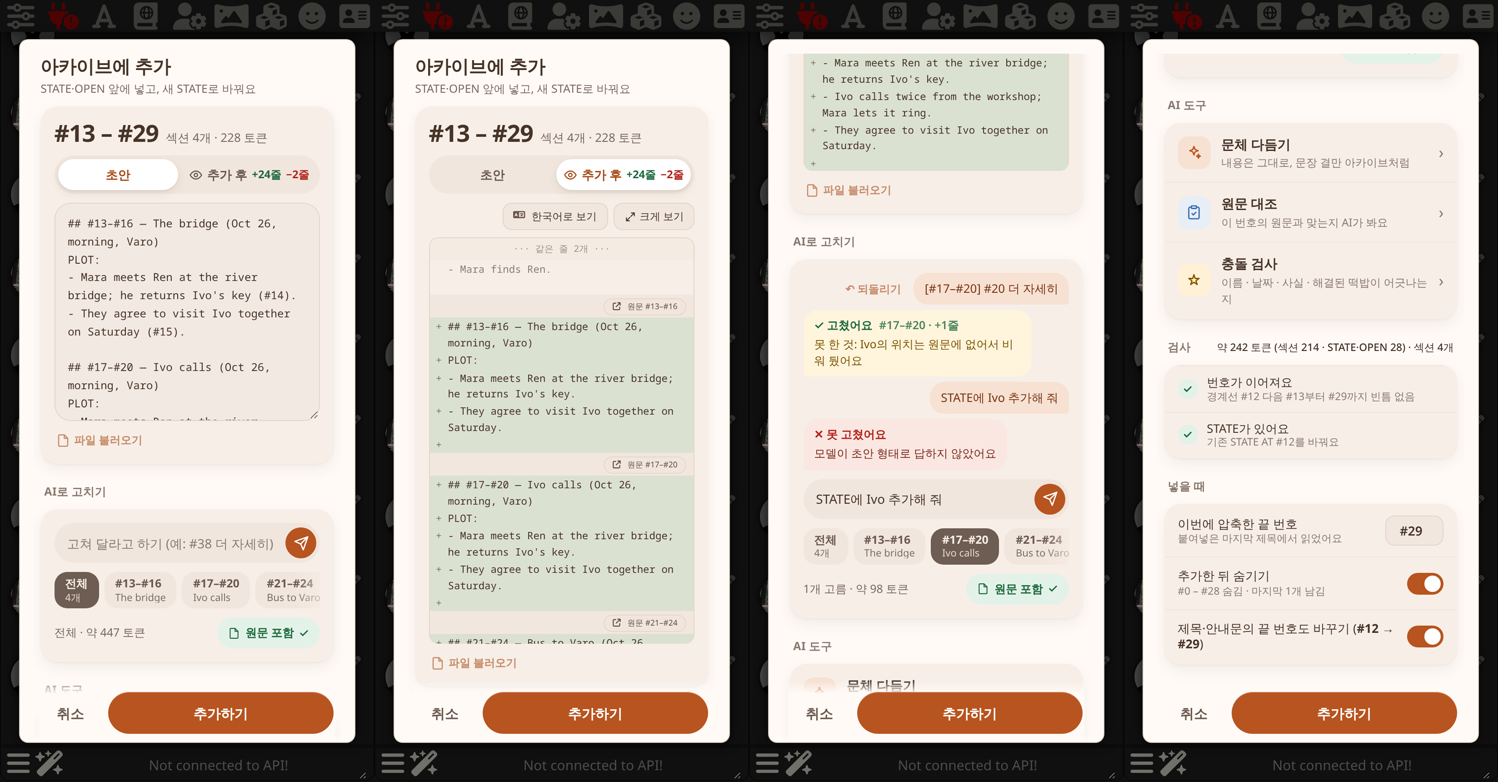
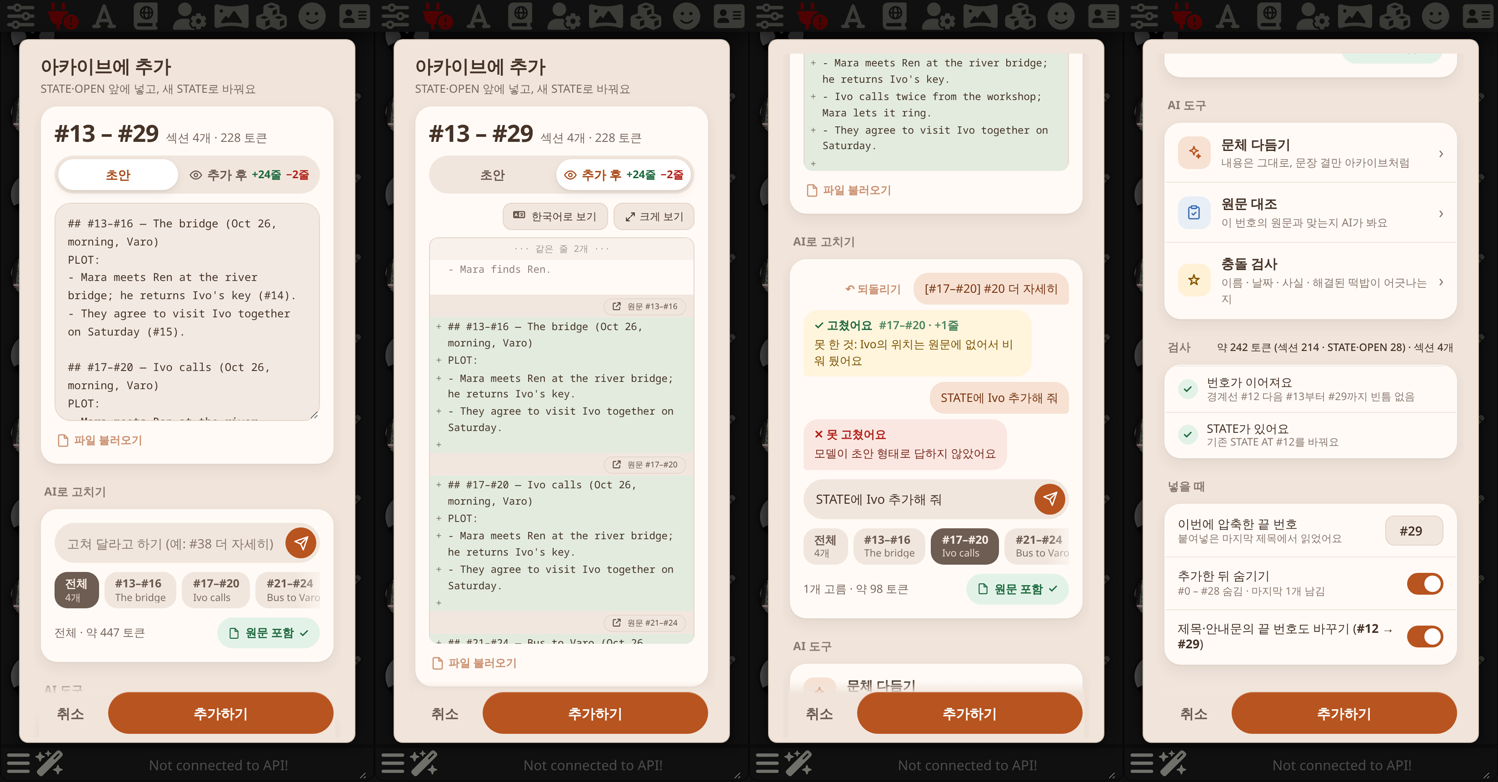
3.158.6: 아카이브에 추가: the other way round, as the settings panel: cream window, cards in its white paper (#FFFAF6)
Claude-Session: https://claude.ai/code/session_01TBUyc5NesEMBcPKHWzpL6W

Changed region(s): [[0.0, 0.0307, 1.0, 0.9514]]

diff --git a/style.css b/style.css
@@ -2447,10 +2447,10 @@ body.na_darkui .na_ap2 .na_append_ta { background: #2E2621 !important; border: 1
 body:not(.na_darkui) .na_ap3 .na_v2_card { border-color: transparent; box-shadow: 0 1px 2px rgba(70, 52, 40, 0.05), 0 6px 16px rgba(70, 52, 40, 0.07); }
 body.na_darkui .na_ap3 .na_v2_card { border-color: transparent; box-shadow: 0 1px 2px rgba(0, 0, 0, 0.2), 0 6px 16px rgba(0, 0, 0, 0.22); }
 .na_ap3 .na_ap3_file.na_append_file_btn { background: transparent; border: 0; padding: 2px; }
-/* light: the window in the settings panel's paper (#FFFAF6), so the cream cards stand out as they do there; selected switch white */
-body:not(.na_darkui) dialog.popup.na_ap3_dlg:has(.na_ap3):not(#na_x) { background: #FFFAF6 !important; }
+/* light: as the settings panel — the window stays cream, the cards are its white paper (#FFFAF6), the selected switch white */
+body:not(.na_darkui) .na_ap3 .na_v2_card { background: #FFFAF6; }
 body:not(.na_darkui) .na_ap3 .na_ap3_seg button.on { background: #FFFFFF; }
-body:not(.na_darkui) .na_ap3_bar { background: linear-gradient(rgba(255, 250, 246, 0), #FFFAF6 14px); }
+body:not(.na_darkui) .na_ap3 :is(.na_ap3_fbody, .na_ap3_fdock) { background: #FFFAF6; }
 /* the draft card */
 .na_ap3_sum { display: flex; flex-direction: column; gap: 10px; padding: 14px; margin-top: 14px; }
 .na_ap3_head { display: flex; align-items: baseline; flex-wrap: wrap; gap: 4px 8px; }

diff --git a/src/core.js b/src/core.js
@@ -12,7 +12,7 @@ import { parseSections } from './sections.js';
 
 export const MODULE = 'narrative_archive';
 export const PROMPT_KEY = 'narrative_archive_injection';
-export const VERSION = '3.158.5';
+export const VERSION = '3.158.6';
 export const SNAPSHOT_MAX = 5;
 export const SNAPSHOT_MAX_CHARS = 2_000_000;
 
